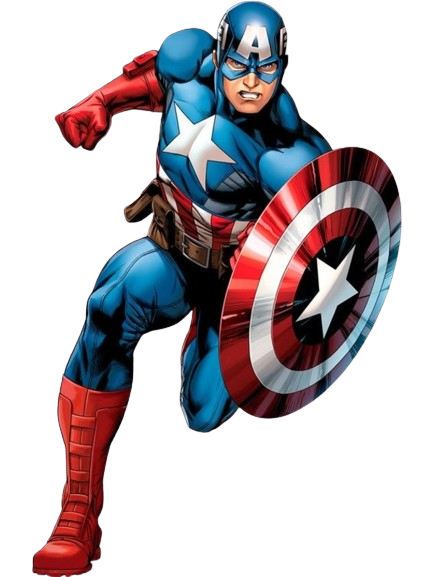
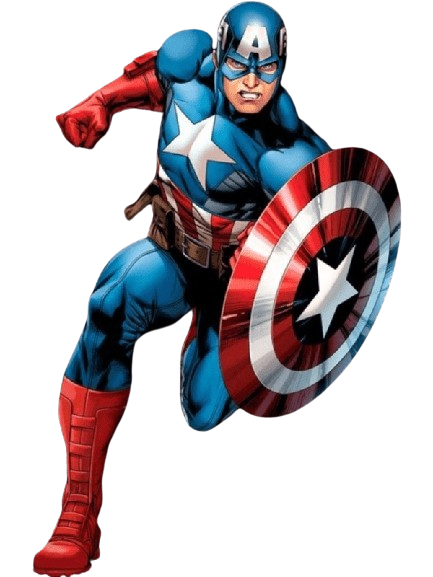
update img resize

diff --git a/index.html b/index.html
@@ -10,7 +10,10 @@
 
     <div class="container">
       <ul class="Gallery">
-        <li></li>
+        <li>
+          <img src="img/thumb/cap.png" alt="Captain America" />
+          <span>Captain America</span>
+        </li>
       </ul>
     </div>
   </body>
